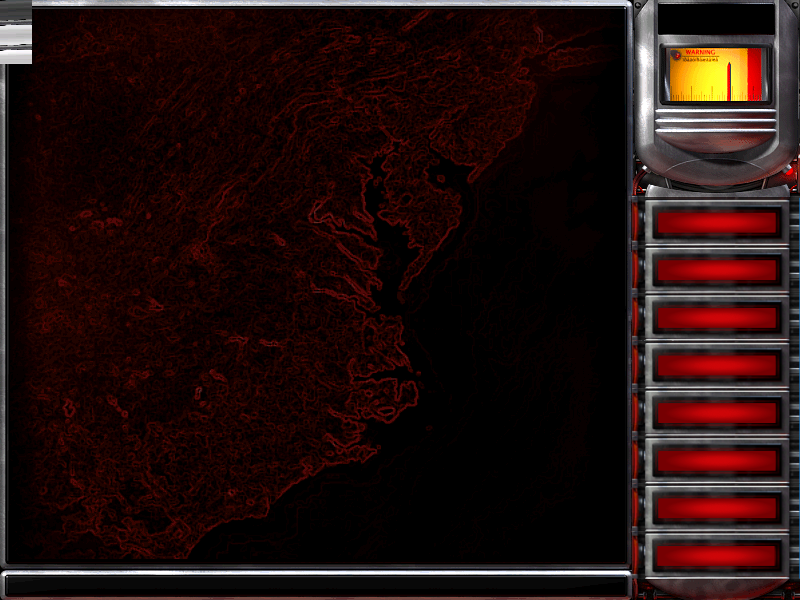
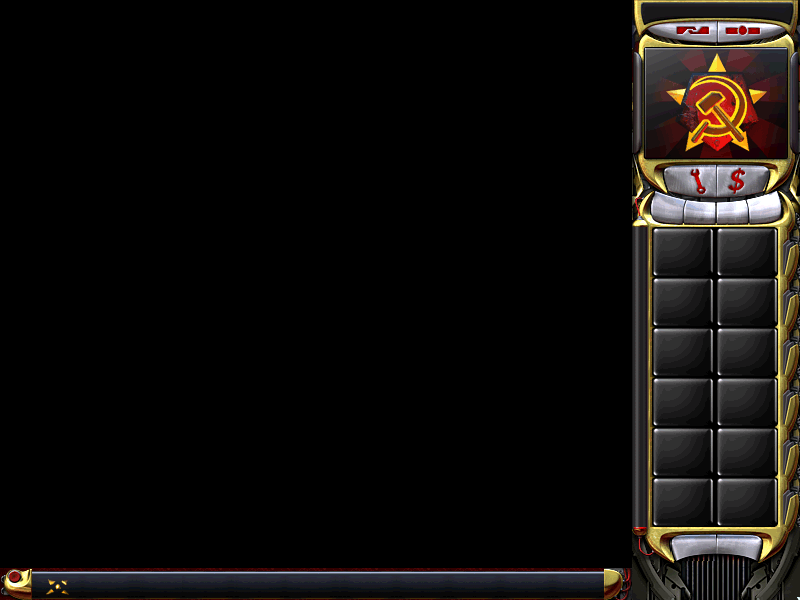
Cleaned up UI WIP.

diff --git a/src/main/java/oosd/views/BoardView.java b/src/main/java/oosd/views/BoardView.java
@@ -1,5 +1,6 @@
 package oosd.views;
 
+import javafx.scene.Group;
 import javafx.scene.control.Button;
 import javafx.scene.image.Image;
 import javafx.scene.input.MouseEvent;
@@ -21,7 +22,7 @@ import oosd.views.components.PieceViewComponent;
 public class BoardView extends View {
     private final Board board;
     private Pane windowGridPane;
-    private final Pane boardPane;
+    private final StackPane boardPane;
     private final GameController controller;
     private final PieceViewComponent selectionPieces;
     private final PieceViewComponent backgroundPieces;
@@ -29,15 +30,17 @@ public class BoardView extends View {
     private final ViewComponentFactory boardFactory;
     private GameEngine gameEngine;
     private Pane sidebar;
+    private HBox toolbar;
     private Text playerTurn;
 
-    public BoardView(GameController controller, GameEngine gameEngine, Pane windowGridPane, Pane boardPane, Pane sidebar, Pane toolbar) {
+    public BoardView(GameController controller, GameEngine gameEngine, Pane windowGridPane, StackPane boardPane, Pane sidebar, HBox toolbar) {
         this.controller = controller;
         this.gameEngine = gameEngine;
         this.windowGridPane = windowGridPane;
         this.boardPane = boardPane;
         this.board = gameEngine.getBoard();
         this.sidebar = sidebar;
+        this.toolbar = toolbar;
         this.boardFactory = new ViewComponentFactory(board.getColumns(), board.getRows());
         this.backgroundPieces = boardFactory.createPieces();
         this.unitPieces = boardFactory.createPieces();
@@ -82,6 +85,7 @@ public class BoardView extends View {
         double x = 0;
         double y = 0;
         int pieceCount = 0;
+        Group group = new Group();
 
         BackgroundImage backgroundImage = new BackgroundImage(new Image(View.class.getResource("menu.png").toString()), BackgroundRepeat.NO_REPEAT, BackgroundRepeat.NO_REPEAT, BackgroundPosition.CENTER, new BackgroundSize(windowGridPane.getWidth(), windowGridPane.getHeight(), true, true, true, false));
         Background background = new Background(backgroundImage);
@@ -112,7 +116,7 @@ public class BoardView extends View {
 
                 stack.setLayoutY(y);
 
-                boardPane.getChildren().add(stack);
+                group.getChildren().add(stack);
 
                 if (pieceCount % 2 == 0) {
                     y = y + boardFactory.getHalfIncrement();
@@ -127,6 +131,8 @@ public class BoardView extends View {
 
             y = yIndex == board.getRows() - 1 ? 0 : y + boardFactory.getFullIncrement();
         }
+
+        boardPane.getChildren().add(group);
     }
 
     private void handlePieceClick(MouseEvent event, Piece piece) {

diff --git a/src/main/java/oosd/controllers/GameController.java b/src/main/java/oosd/controllers/GameController.java
@@ -2,8 +2,10 @@ package oosd.controllers;
 
 import javafx.event.ActionEvent;
 import javafx.fxml.FXML;
+import javafx.geometry.Insets;
 import javafx.scene.input.MouseEvent;
-import javafx.scene.layout.Pane;
+import javafx.scene.layout.*;
+import javafx.scene.paint.Color;
 import oosd.models.GameEngine;
 import oosd.models.board.Piece;
 import oosd.views.BoardView;
@@ -21,13 +23,13 @@ public class GameController extends Controller {
     private Pane windowGridPane;
 
     @FXML
-    private Pane boardPane;
+    private StackPane boardPane;
 
     @FXML
     private Pane sidebar;
 
     @FXML
-    private Pane toolbar;
+    private HBox toolbar;
 
     private BoardView boardView;
 
@@ -36,6 +38,7 @@ public class GameController extends Controller {
     }
 
     @FXML protected void handleSubmitButtonAction(ActionEvent event) {
+        System.out.println("poop");
     }
 
     @Override

diff --git a/src/main/java/oosd/Main.java b/src/main/java/oosd/Main.java
@@ -66,7 +66,6 @@ public class Main extends Application {
         primaryStage.setScene(content);
         primaryStage.setTitle(windowTitle);
         primaryStage.setResizable(false);
-        primaryStage.setAlwaysOnTop(true);
         primaryStage.show();
     }
 
